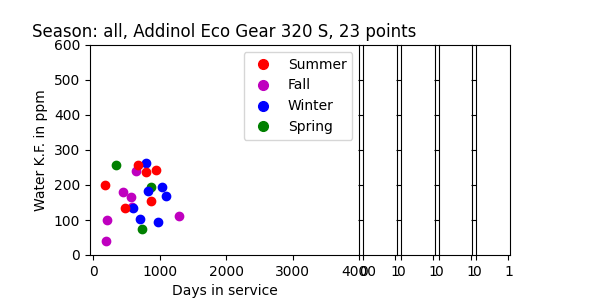
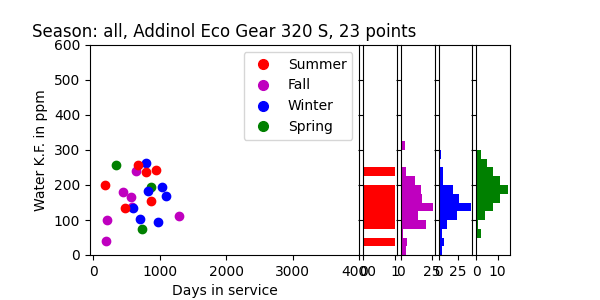
Sep 29, 2022, 7:33 PM

Changed region(s): [[0.6, 0.51, 0.87, 0.84], [0.69, 0.87, 0.87, 0.93], [0.66, 0.48, 0.69, 0.51]]

diff --git a/project/dataset.py b/project/dataset.py
@@ -168,22 +168,6 @@ class Dataset:
                 ylabelstr = ""
 
 
-
-                #fig, ax = plt.subplots()
-                ax.plot(d1["x_values"], d1["y_values"], "mo")
-                for d2 in ldspring:
-                    if d2["oil_name"] == noil:
-                        npoints += len(d2["x_values"])
-                        ax.plot(d2["x_values"], d2["y_values"], "go")
-                        for d3 in ldwinter:
-                            if d3["oil_name"] == noil:
-                                npoints += len(d3["x_values"])
-                                ax.plot(d3["x_values"], d3["y_values"], "bo")
-                                for d4 in ldsummer:
-                                    if d4["oil_name"] == noil:
-                                        npoints += len(d4["x_values"])
-                                        ax.plot(d4["x_values"], d4["y_values"], "ro")
-                ax.set_title(f"Season: all, {noil}, {npoints} points")
                 binwidth = 0
                 if p == "Wasser K. F.":
                     ylabelstr = "Water K.F. in ppm"
@@ -247,16 +231,40 @@ class Dataset:
                 ax.legend(
                     handles=[summer_point, fall_point, winter_point, spring_point]
                 )
-                if len(d2["x_values"]) > 0:
-                    print(len(d2["x_values"]), len(d2["y_values"]))
-                    xymax = max(np.max(np.abs(d2["x_values"])), np.max(np.abs(d2["y_values"])))
+
+
+
+                #fig, ax = plt.subplots()
+                ax.plot(d1["x_values"], d1["y_values"], "mo")
+                print("lx11:", len(d1["x_values"]), "ly11:", len(d1["y_values"]))
+                for d2 in ldspring:
+                    if d2["oil_name"] == noil:
+                        npoints += len(d2["x_values"])
+                        ax.plot(d2["x_values"], d2["y_values"], "go")
+                        print("lx21:", len(d2["x_values"]), "ly21:", len(d2["y_values"]))
+                        for d3 in ldwinter:
+                            if d3["oil_name"] == noil:
+                                npoints += len(d3["x_values"])
+                                ax.plot(d3["x_values"], d3["y_values"], "bo")
+                                print("lx31:", len(d3["x_values"]), "ly31:", len(d3["y_values"]))
+                                for d4 in ldsummer:
+                                    if d4["oil_name"] == noil:
+                                        npoints += len(d4["x_values"])
+                                        ax.plot(d4["x_values"], d4["y_values"], "ro")
+                                        print("lx41:", len(d4["x_values"]), "ly41:", len(d4["y_values"]))
+                ax.set_title(f"Season: all, {noil}, {npoints} points")
+               
+                if len(d1["x_values"]) > 0:
+                    print("lx12:", len(d1["x_values"]), "ly12:", len(d1["y_values"]))
+                    xymax = max(np.max(np.abs(d1["x_values"])), np.max(np.abs(d1["y_values"])))
                     lim = (int(xymax/binwidth) + 1) * binwidth
 
                     bins = np.arange(-lim, lim + binwidth, binwidth)
                         
-                    ax_histy_summer.hist(d2["y_values"], bins=bins, color="red", orientation='horizontal')
+                    ax_histy_summer.hist(d1["y_values"], bins=bins, color="red", orientation='horizontal')
 
                 if len(d2["x_values"]) > 0:
+                    print("lx22:", len(d2["x_values"]), "ly22:", len(d2["y_values"]))
                     xymax = max(np.max(np.abs(d2["x_values"])), np.max(np.abs(d2["y_values"])))
                     lim = (int(xymax/binwidth) + 1) * binwidth
 
@@ -264,21 +272,23 @@ class Dataset:
                         
                     ax_histy_fall.hist(d2["y_values"], bins=bins, color="m", orientation='horizontal')
 
-                if len(d2["x_values"]) > 0:
-                    xymax = max(np.max(np.abs(d2["x_values"])), np.max(np.abs(d2["y_values"])))
+                if len(d3["x_values"]) > 0:
+                    print("lx32:", len(d3["x_values"]), "ly32:", len(d3["y_values"]))
+                    xymax = max(np.max(np.abs(d3["x_values"])), np.max(np.abs(d3["y_values"])))
                     lim = (int(xymax/binwidth) + 1) * binwidth
 
                     bins = np.arange(-lim, lim + binwidth, binwidth)
                         
-                    ax_histy_winter.hist(d2["y_values"], bins=bins, color="blue", orientation='horizontal')
+                    ax_histy_winter.hist(d3["y_values"], bins=bins, color="blue", orientation='horizontal')
 
-                if len(d2["x_values"]) > 0:
-                    xymax = max(np.max(np.abs(d2["x_values"])), np.max(np.abs(d2["y_values"])))
+                if len(d4["x_values"]) > 0:
+                    print("lx42:", len(d4["x_values"]), "ly42:", len(d4["y_values"]))
+                    xymax = max(np.max(np.abs(d4["x_values"])), np.max(np.abs(d4["y_values"])))
                     lim = (int(xymax/binwidth) + 1) * binwidth
 
                     bins = np.arange(-lim, lim + binwidth, binwidth)
                         
-                    ax_histy_spring.hist(d2["y_values"], bins=bins, color="green", orientation='horizontal')
+                    ax_histy_spring.hist(d4["y_values"], bins=bins, color="green", orientation='horizontal')
 
 
 
